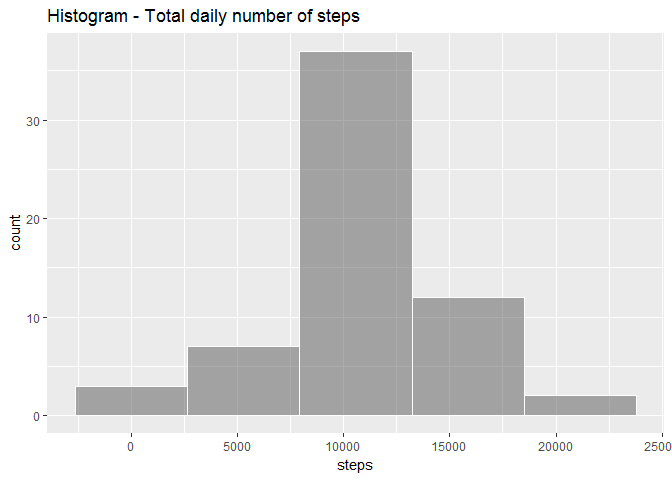
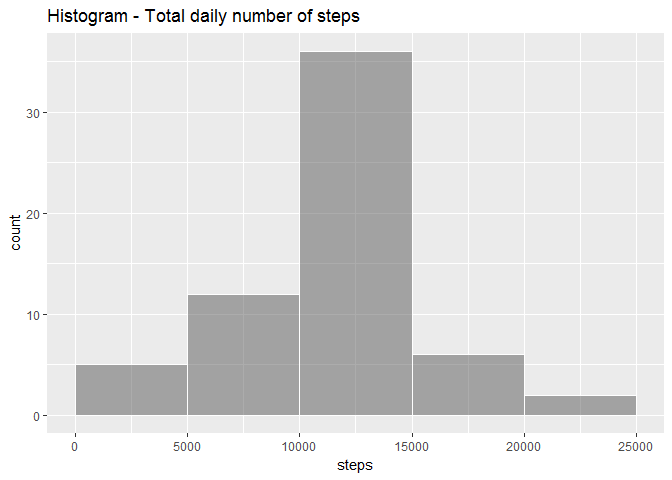
fourth commit

diff --git a/PA1_template.html b/PA1_template.html
@@ -150,9 +150,9 @@ summary(activities)</code></pre>
 <ul>
 <li>Make a histogram of the total number of steps taken each day</li>
 </ul>
-<pre class="r"><code>gg &lt;- ggplot(data=daysteps, aes(steps)) + geom_histogram(bins = 5,alpha=.5,col=&quot;white&quot;) + labs(title = &quot;Histogram - Total daily number of steps&quot;)
+<pre class="r"><code>gg &lt;- ggplot(data=daysteps, aes(steps)) + geom_histogram(breaks=seq(0, 25000, by=5000),alpha=.5,col=&quot;white&quot;) + labs(title = &quot;Histogram - Total daily number of steps&quot;)
 print(gg)</code></pre>
[2 lines of base64/hex data omitted]
 <p><strong>Barplot</strong></p>
 <pre class="r"><code>gg &lt;- ggplot(data = daysteps, aes(x=date,y=steps)) + geom_bar(stat = 'identity') + scale_x_date(date_breaks = '1 week',date_labels = &quot;%b %d&quot;) + labs(title = &quot;Barplot - Total daily number of steps&quot;)
 print(gg)</code></pre>
@@ -199,9 +199,9 @@ for(i in seq_along(activitiesNoNA$steps)){
 <li>Make a histogram of the total number of steps taken each day.</li>
 </ul>
 <pre class="r"><code>daystepsNoNA &lt;- aggregate(steps ~ date, sum, data=activitiesNoNA, na.rm=T)
-gg &lt;- ggplot(data=daystepsNoNA, aes(steps)) + geom_histogram(bins = 5,alpha=.5,col=&quot;white&quot;) + labs(title = &quot;Histogram - Total daily number of steps &quot;)
+gg &lt;- ggplot(data=daystepsNoNA, aes(steps)) + geom_histogram(breaks=seq(0, 25000, by=5000),alpha=.5,col=&quot;white&quot;) + labs(title = &quot;Histogram - Total daily number of steps &quot;)
 print(gg)</code></pre>
[2 lines of base64/hex data omitted]
 <pre class="r"><code>gg &lt;- ggplot(data = daystepsNoNA, aes(x=date,y=steps)) + geom_bar(stat = 'identity') + scale_x_date(date_breaks = '1 week',date_labels = &quot;%b %d&quot;) + labs(title = &quot;Barplot - Total daily number of steps - with imputed values&quot;)
 print(gg)</code></pre>
[1 lines of base64/hex data omitted]

diff --git a/PA1_template.md b/PA1_template.md
@@ -46,7 +46,7 @@ daysteps <- setNames(aggregate(activities$steps,by=list(activities$date),sum,na.
 *  Make a histogram of the total number of steps taken each day  
 
 ```r
-gg <- ggplot(data=daysteps, aes(steps)) + geom_histogram(bins = 5,alpha=.5,col="white") + labs(title = "Histogram - Total daily number of steps")
+gg <- ggplot(data=daysteps, aes(steps)) + geom_histogram(breaks=seq(0, 25000, by=5000),alpha=.5,col="white") + labs(title = "Histogram - Total daily number of steps")
 print(gg)
 ```
 
@@ -118,7 +118,7 @@ for(i in seq_along(activitiesNoNA$steps)){
 
 ```r
 daystepsNoNA <- aggregate(steps ~ date, sum, data=activitiesNoNA, na.rm=T)
-gg <- ggplot(data=daystepsNoNA, aes(steps)) + geom_histogram(bins = 5,alpha=.5,col="white") + labs(title = "Histogram - Total daily number of steps ")
+gg <- ggplot(data=daystepsNoNA, aes(steps)) + geom_histogram(breaks=seq(0, 25000, by=5000),alpha=.5,col="white") + labs(title = "Histogram - Total daily number of steps ")
 print(gg)
 ```
 
